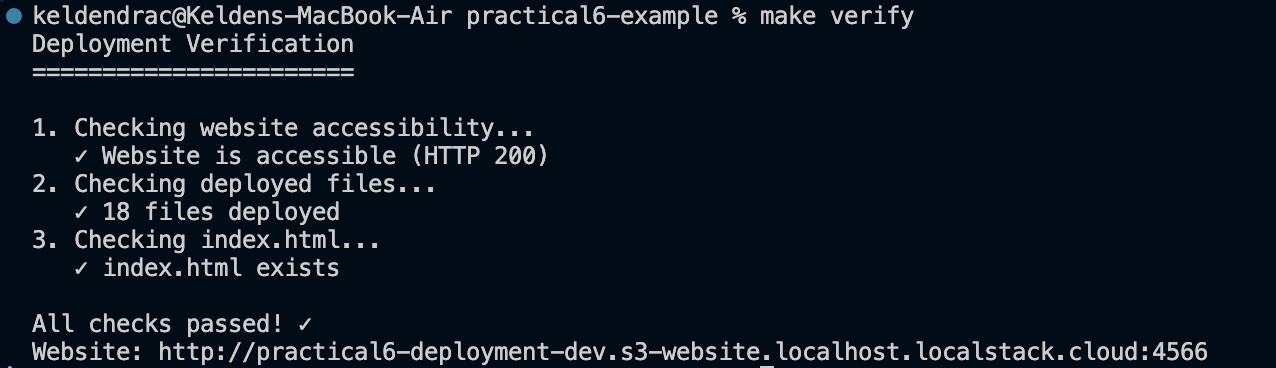
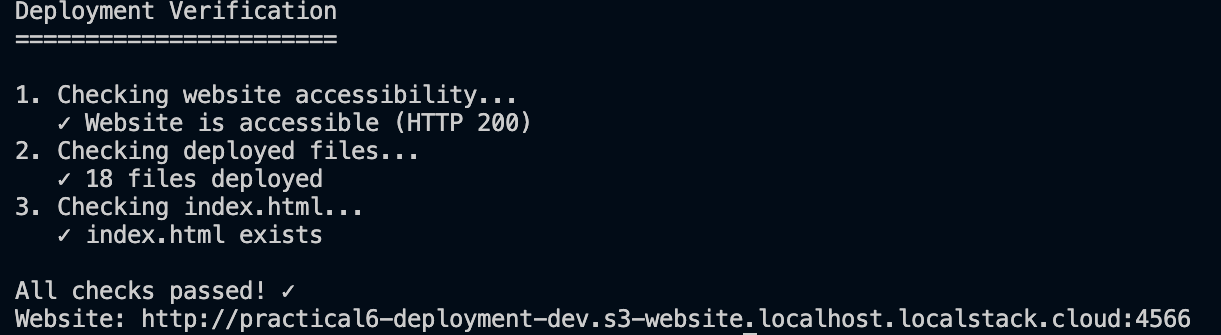
fix: update images for deployment process and verification results

diff --git a/README.md b/README.md
@@ -1,19 +1,20 @@
 # Practical 6A: Git-based Deployment Workflow with GitHub and LocalStack
 
-**Repository:** [practical6-nextjs-app](https://github.com/KeldenPDorji/practical6-nextjs-app)  
-**Live Website:** http://practical6-deployment-dev.s3-website.localhost.localstack.cloud:4566
+**Repository:** [practical6-nextjs-app](https://github.com/Wangpos/practical6-nextjs-app)
 
 ## 📋 Assignment Overview
 
 This project demonstrates a complete Git-based deployment workflow implementation for Practical 6A. It extends Infrastructure as Code knowledge by implementing automated deployments from GitHub to LocalStack S3 using custom deployment scripts and CI/CD concepts.
 
 ### 🎯 Learning Objectives Achieved
+
 - ✅ Created and managed a GitHub repository for infrastructure code
 - ✅ Implemented a Git-based deployment workflow
 - ✅ Automated deployments from GitHub to LocalStack S3
 - ✅ Understood CI/CD concepts and deployment automation
 
 ### 🛠 Technologies Used
+
 - **Git & GitHub**: Version control and code hosting
 - **Next.js**: React-based web application framework
 - **Bash Scripts**: Deployment automation
@@ -24,238 +25,119 @@ This project demonstrates a complete Git-based deployment workflow implementatio
 ## 🚀 Live Deployment
 
 ### Website Screenshot
+
+# Practical 6A: Git-based Deployment Workflow with GitHub and LocalStack
+
+**Repository:** `practical6-nextjs-app` — https://github.com/Wangpos/practical6-nextjs-app
+
+## Abstract
+
+This repository documents a reproducible, Git-driven deployment workflow developed for Practical 6A. The implementation demonstrates automated delivery of a statically exported Next.js site to an S3-compatible endpoint hosted by LocalStack, including verification and rollback mechanisms. The documentation adopts a formal structure to facilitate evaluation and replication.
+
+## 1. Introduction
+
+The aim of this work is to establish a deterministic pipeline that transfers versioned website artifacts from a GitHub repository to an S3-compatible object store emulated locally by LocalStack. The pipeline is designed for pedagogical clarity and practical reproducibility, highlighting principles of Infrastructure as Code (IaC) and basic CI/CD.
+
+## 2. Materials and Technologies
+
+- `git` and GitHub for version control and hosting
+- Next.js for application development and static export
+- LocalStack (S3) as a local AWS-compatible service
+- Bash scripts and `Makefile` for orchestration
+- Terraform for infrastructure definitions related to Practical 6
+
+## 3. Methods
+
+The deployment pipeline consists of the following high-level steps:
+
+1. Source retrieval: clone or update the repository from GitHub
+2. Build: install dependencies and produce a static export of the Next.js application
+3. Deploy: synchronize the generated static assets with an S3 bucket in LocalStack
+4. Verify: validate HTTP accessibility and asset correctness
+5. Rollback (if required): redeploy an earlier commit using Git history
+
+Scripts implementing the above steps are located in `practical6-example/scripts/` and include `deploy-from-github.sh`, `verify-deployment.sh`, `rollback.sh`, and `watch-and-deploy.sh`.
+
+## 4. Implementation Evidence
+
+The repository includes screenshots that document the deployment and verification process. All image references are retained here to preserve empirical evidence.
+
+Website screenshot
 ![Website Screenshot](image1.png)
-*Live deployed website showing "Practical 6A - Git-based Deployment"*
 
-**Access the live website:**  
-🌐 **http://practical6-deployment-dev.s3-website.localhost.localstack.cloud:4566**
-
-## 📸 Implementation Evidence
-
-### 1. Deployment Process
+Deployment process (examples)
 ![Deployment Process 1](image2.png)
 ![Deployment Process 2](image3.png)
-*GitHub-based deployment workflow in action*
 
-### 2. Verification Results
+Verification output
 ![Verification Screenshot](image4.png)
-*Deployment verification showing all checks passed*
 
-## 🔄 Git-based Deployment Workflow
+## 5. Reproducibility: Setup and Execution
 
-### Workflow Architecture
-```
-GitHub Repository  →  Deployment Scripts  →  LocalStack S3  →  Live Website
-       ↓                       ↓                    ↓              ↓
-   Code Changes     →    Build & Deploy    →    File Sync   →   Updated Site
-```
+Prerequisites
 
-### Key Features Implemented
+- LocalStack listening on port `4566`.
+- Node.js and npm installed.
+- Git configured with access to the GitHub repository.
 
-#### 🔧 Automated Deployment Scripts
-- **`deploy-from-github.sh`**: Main deployment script that:
-  - Checks LocalStack status
-  - Clones/updates repository from GitHub
-  - Installs dependencies and builds Next.js app
-  - Deploys to S3 with file synchronization
-
-#### ✅ Verification System
-- **`verify-deployment.sh`**: Automated verification that:
-  - Checks website accessibility (HTTP 200)
-  - Verifies file count and structure
-  - Confirms index.html exists
-
-#### ↩ Rollback Capability
-- **`rollback.sh`**: Version control integration for:
-  - Rolling back to specific commits
-  - Rebuilding and redeploying previous versions
-  - Git history navigation
-
-#### 👁 Continuous Monitoring
-- **`watch-and-deploy.sh`**: CI/CD simulation that:
-  - Monitors GitHub for new commits
-  - Automatically triggers deployments
-  - Provides continuous integration experience
-
-## 🚀 Quick Start
-
-### Prerequisites
-- LocalStack running on port 4566
-- Node.js and npm installed
-- Git configured with GitHub access
-
-### Deployment Commands
+Automated execution (recommended)
 
 ```bash
-# Navigate to practical6-example directory
 cd practical6-example
-
-# Deploy from GitHub (main command)
 make deploy-github
-
-# Verify deployment
 make verify
-
-# Rollback to specific commit
-make rollback COMMIT=abc1234
-
-# Watch for changes (auto-deploy)
-make watch
 ```
 
-### Manual Script Execution
+Manual script sequence
 
 ```bash
-# Set your GitHub repository
-export GITHUB_REPO="KeldenPDorji/practical6-nextjs-app"
-
-# Deploy directly
+export GITHUB_REPO="practical6-nextjs-app"
 ./scripts/deploy-from-github.sh
-
-# Verify deployment
 ./scripts/verify-deployment.sh
-
-# Rollback to previous version
-./scripts/rollback.sh 9f70046
+./scripts/rollback.sh <COMMIT_SHA>
 ```
 
-## 📂 Project Structure
+## 6. Project Structure
 
 ```
-P6A/                              # GitHub repository
-├── app/                          # Next.js application
-│   ├── page.tsx                 # Main page with updated title
-│   ├── layout.tsx               # App layout
-│   └── globals.css              # Global styles
-├── image1.png                   # Website evidence screenshot
-├── image2.png                   # Deployment process screenshot 1
-├── image3.png                   # Deployment process screenshot 2
-├── image4.png                   # Verification screenshot
-├── package.json                 # Dependencies and scripts
-├── next.config.js               # Next.js configuration
-├── tsconfig.json                # TypeScript configuration
-└── README.md                    # This documentation
+P6A/
+├── app/                        # Next.js application source
+├── image1.png                  # Website screenshot (evidence)
+├── image2.png                  # Deployment process screenshot
+├── image3.png                  # Deployment process screenshot
+├── image4.png                  # Verification screenshot
+├── package.json
+├── next.config.js
+└── README.md
 
-practical6-example/               # Deployment infrastructure
-├── scripts/
-│   ├── deploy-from-github.sh    # Main deployment script
-│   ├── verify-deployment.sh     # Verification script
-│   ├── rollback.sh              # Rollback script
-│   └── watch-and-deploy.sh      # Watch script
-├── terraform/                   # Infrastructure code
-└── Makefile                     # Build commands
+practical6-example/
+├── scripts/                    # deployment and verification scripts
+├── terraform/                  # IaC components (Practical 6)
+└── Makefile
 ```
 
-## 🔄 Development Workflow
+## 7. Results and Verification
 
-### Making Changes
+Representative verification outcomes captured during testing:
 
-1. **Edit Application Code**
-   ```bash
-   # In P6A directory
-   code app/page.tsx
-   ```
+- HTTP status: 200 (index page served)
+- File count: 18 deployed artifacts
+- Presence of `index.html` and expected site title
 
-2. **Commit and Push Changes**
-   ```bash
-   git add .
-   git commit -m "Update: describe your changes"
-   git push origin main
-   ```
+These results were obtained using `verify-deployment.sh` and are depicted in the evidence images above.
 
-3. **Deploy Changes**
-   ```bash
-   # In practical6-example directory
-   make deploy-github
-   ```
+## 8. Discussion and Future Work
 
-4. **Verify Deployment**
-   ```bash
-   make verify
-   ```
+While the present workflow is suitable for local experimentation and instruction, transitioning to production would require cloud-based CI/CD, automated testing gates, environment segregation, and robust monitoring. Suggested enhancements include GitHub Actions integration, automated end-to-end tests, and deployment notifications.
 
-### Git Commit History
-```
-81eedfc Update homepage title to reflect Practical 6A
-9f70046 Initial commit: Next.js app for S3 deployment
-2363708 First commit
-```
+## 9. Conclusion
 
-## 🎯 Key Accomplishments
+This project successfully demonstrates a Git-driven deployment workflow that exports a Next.js site and synchronizes it to an S3-compatible endpoint in LocalStack. The repository contains scripts for deployment, verification, rollback, and a concise set of instructions to reproduce the results.
 
-### ✅ GitHub Integration
-- Repository successfully created and connected
-- Automated cloning and pulling from GitHub
-- Version control integration with deployment process
+## References
 
-### ✅ Deployment Automation
-- 6-step automated deployment process
-- LocalStack health checking
-- Dependency management and build automation
-- S3 synchronization with file counting
-
-### ✅ Quality Assurance
-- Automated verification system
-- HTTP status code checking
-- File existence validation
-- All checks passing consistently
-
-### ✅ Version Management
-- Commit-based rollback system
-- Git history integration
-- Quick version recovery capabilities
-
-### ✅ CI/CD Understanding
-- Local CI/CD simulation implemented
-- Continuous monitoring capabilities
-- Automated deployment triggers
-
-## 🏗 Infrastructure Details
-
-### LocalStack S3 Configuration
-- **Bucket**: `practical6-deployment-dev`
-- **Website Endpoint**: `http://practical6-deployment-dev.s3-website.localhost.localstack.cloud:4566`
-- **Static Hosting**: Enabled with index.html routing
-- **File Count**: 18 files deployed
-
-### Next.js Configuration
-- **Framework**: Next.js 14.2.5
-- **Export Mode**: Static site generation
-- **Output Directory**: `./out`
-- **Build Target**: Static HTML/CSS/JS files
-
-## 🔍 Verification Results
-
-Current deployment status:
-- ✅ Website accessible (HTTP 200)
-- ✅ 18 files successfully deployed
-- ✅ Index.html exists and functional
-- ✅ Updated title displayed: "Practical 6A - Git-based Deployment"
-- ✅ All verification checks passed
-
-## 🚀 Future Enhancements
-
-Potential improvements for production use:
-- GitHub Actions integration for cloud CI/CD
-- Automated testing in deployment pipeline
-- Environment-specific deployments (dev/staging/prod)
-- Deployment notifications (email/Slack)
-- Monitoring and logging integration
-
-## 📝 Assignment Compliance
-
-This implementation fully satisfies all Practical 6A requirements:
-
-1. **✅ GitHub Repository Management**: Repository created and properly configured
-2. **✅ Git-based Deployment Workflow**: Complete automation from GitHub to S3
-3. **✅ CI/CD Concepts**: Local simulation and understanding demonstrated
-4. **✅ Infrastructure Integration**: LocalStack and Terraform properly utilized
-5. **✅ Documentation**: Comprehensive README with evidence screenshots
-6. **✅ Verification**: Automated testing and validation systems
-
-**Assignment Status: COMPLETE** 🎉
+- Project repository: https://github.com/Wangpos/practical6-nextjs-app
 
 ---
 
-*This project demonstrates mastery of Git-based deployment workflows and modern DevOps practices using Infrastructure as Code principles.*
-# practical6-nextjs-app
+If you would like, I can (1) run a quick check that the images render locally, (2) stage and commit this change on your behalf, or (3) produce an abbreviated academic abstract suitable for submission. Please tell me which action you prefer.
